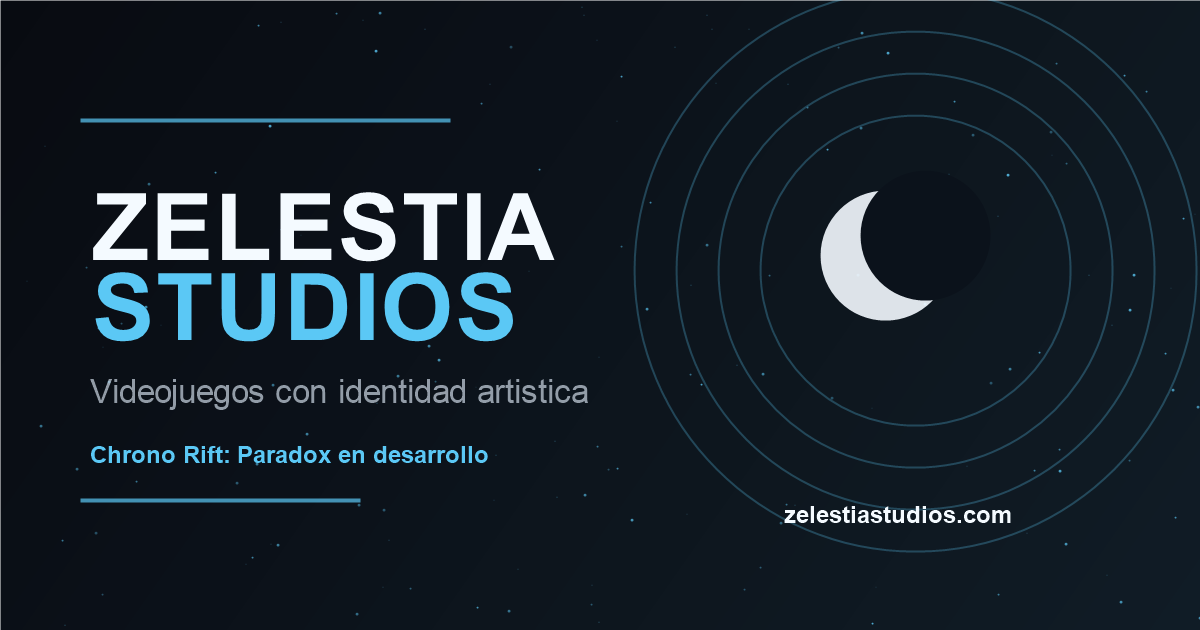
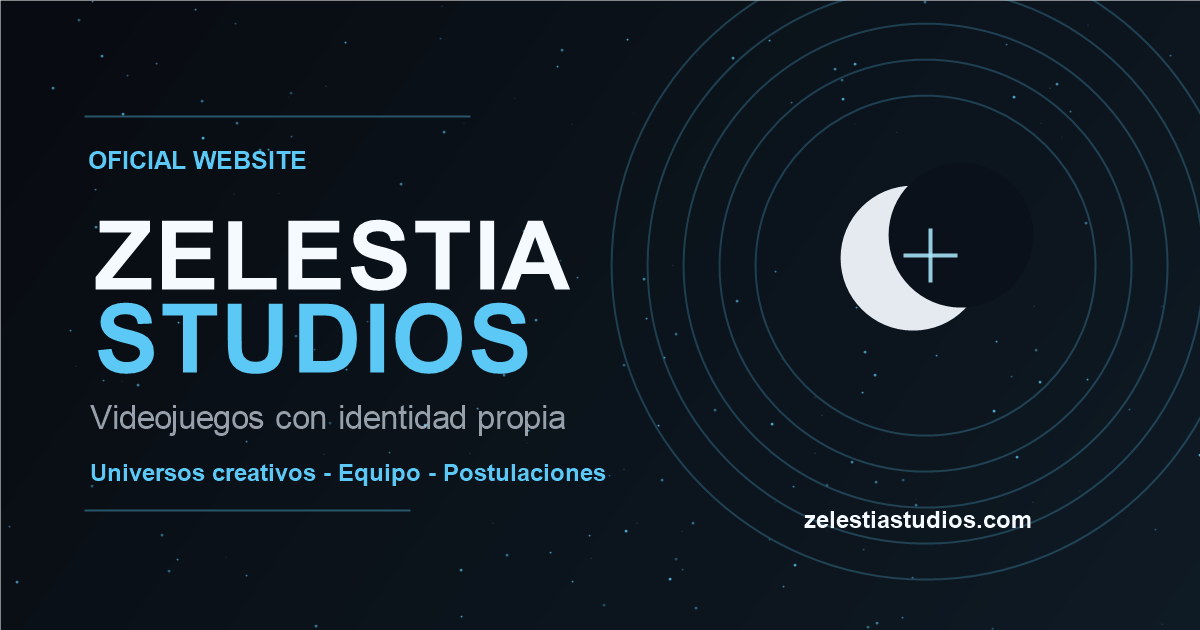
Add files via upload

diff --git a/index.html b/index.html
@@ -15,7 +15,7 @@
   <meta property="og:locale" content="es_ES">
   <meta property="og:url" content="https://zelestiastudios.com/">
   <meta property="og:title" content="Zelestia Studios | Videojuegos con identidad propia">
-  <meta property="og:description" content="Conoce nuestro estudio, Chrono Rift: Paradox y las postulaciones para unirte al equipo creativo.">
+  <meta property="og:description" content="Empresa de desarrollo de videojuegos construyendo mundos con identidad artistica, vision estetica y universos memorables.">
   <meta property="og:image" content="https://zelestiastudios.com/assets/og-card.png">
   <meta property="og:image:secure_url" content="https://zelestiastudios.com/assets/og-card.png">
   <meta property="og:image:type" content="image/png">
@@ -25,7 +25,7 @@
 
   <meta name="twitter:card" content="summary_large_image">
   <meta name="twitter:title" content="Zelestia Studios | Videojuegos con identidad propia">
-  <meta name="twitter:description" content="Conoce Chrono Rift: Paradox y postulate para formar parte del equipo creativo.">
+  <meta name="twitter:description" content="Videojuegos, universos creativos y postulaciones para formar parte del equipo.">
   <meta name="twitter:image" content="https://zelestiastudios.com/assets/og-card.png">
   <link href="https://fonts.googleapis.com/css2?family=Orbitron:wght@400;600;800;900&family=Exo+2:ital,wght@0,300;0,400;0,500;0,600;1,300&display=swap" rel="stylesheet">
   <link rel="stylesheet" href="styles.css">